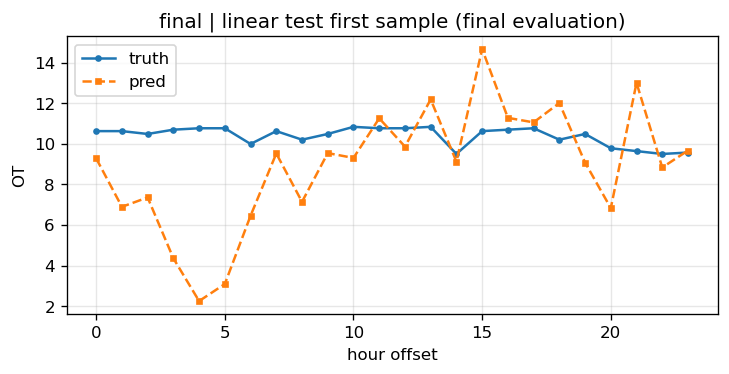
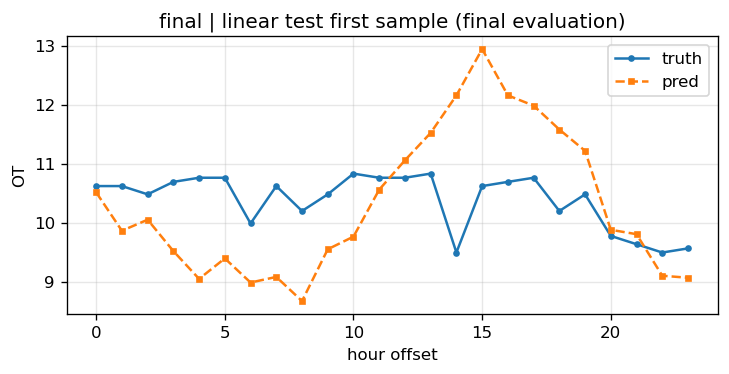
r8 formal rerun on new time-first split (5 models x 200 epochs); final evaluation selects Linear (test MAE 1.3788, beats baseline 1.4597 by 5.5%); update REPORT.md and README.md with new results

diff --git a/lesson3/REPORT.md b/lesson3/REPORT.md
@@ -4,8 +4,11 @@
 
 > 旧结果（r1–r7）基于**旧切分方式**（先构造全量滑窗样本、再按样本索引切 70/15/15，
 > 训练/验证边界样本高度重叠），已归档至 `outputs/metrics_legacy_oldsplit.csv`。
-> 下方 r1–r7 各表仅为旧切分方式存档，**不作为最终结论依据**；
-> 待新切分方式统一重跑后更新全部结论。
+> 下方 r1–r7 各表仅为旧切分方式存档，**不作为最终结论依据**。
+>
+> **新切分方式已统一重跑完成（r8，2026-09-01）**：先按时间把原始序列切成 70/15/15、
+> 再各段内滑窗；5 个模型各 200 epochs 全量训练。r8 结果与 final Test 正式评价
+> 见第 4 节、第 5 节；第 6 节结论已按新结果更新。
 
 本次按评审意见修正了 5 个问题：
 
@@ -42,9 +45,10 @@
 
 ## 3. 实验设置
 
-- 优化器 Adam，损失 MSELoss，默认 lr=0.001、batch_size=256、epochs=100（可调，见 config.yaml）
-- r1 为快速验证：epochs=20；r2–r7 逐步完成 3 次结构变化 + 3 次训练超参变化实验
-- 每轮全量重跑 5 个模型；loss 曲线见 `outputs/figures/`
+- 优化器 Adam，损失 MSELoss；config.yaml 当前配置 lr=0.0001、batch_size=128、epochs=200
+- r1–r7 为旧切分方式下的快速验证/结构变化/超参变化实验（存档，不作为结论依据）
+- **r8 为新切分方式的正式重跑**：5 个模型各 200 epochs 全量训练，作为最终结论依据
+- loss 曲线见 `outputs/figures/`
 
 > **重大勘误（全量重跑）**：此前版本误用了 `generate_synthetic_etth1.py` 生成的随机游走合成数据
 > （1500 行，列名 f1..f6）冒充真实 ETTh1，且旧下载脚本的 GitHub 路径已 404 失效。
@@ -53,6 +57,25 @@
 > 下表全部数值均为**真实 ETTh1 数据**下的结果。
 
 ## 4. 结果表
+
+### r8（正式，新切分方式）：全模型 200 epochs（lr=1e-4, bs=128）
+
+> 先按时间把原始序列切成 70/15/15，再各段内滑窗（train 12,075 / val 2,494 / test 2,494）。
+> 下表为 **Validation 指标**（模型选择依据）；最终方案的 Test 正式评价见 5.2。
+
+Model | 主要结构 | 参数量 | Val MAE | Val MSE | Best Epoch | Training Time
+------|----------|--------|---------|---------|------------|--------------
+Baseline | Last Value | 0 | **1.2839** | 2.9112 | - | 0.02s
+Linear | Linear(672→24) | 16,152 | 1.2983 | **2.8719** | 200 | 58.5s
+MLP | MLP(672→128×2层→24) | 105,752 | 2.9186 | 12.7313 | 25 | 113.0s
+CNN | CNN(kernel=5, channels=32) | 1,944 | 2.4663 | 9.5671 | 19 | 89.7s
+LSTM | LSTM(2层, hidden=64) | 53,528 | 1.9498 | 6.0856 | 36 | 1929.4s
+
+> Validation 上 Baseline 与 Linear 几乎持平（1.2839 vs 1.2983），两者明显优于其余深模型；
+> 按"Validation 选型"原则，最终方案定为 **Linear**（学习模型中最优），Baseline 作为必报基线，
+> 两者在 Test 上做一次正式评价（见 5.2）。
+
+> 以下 r1–r7 均为**旧切分方式**存档（先全量滑窗再按样本索引切分），仅作过程回溯，不作为结论依据。
 
 ### r1：epochs=20 快速验证
 
@@ -132,75 +155,52 @@ LSTM | LSTM(2层, hidden=64) | 53,528 | 1.4515 | 3.7806 | 48 | 1499.2s
 
 > 逐轮结果详见 `outputs/metrics.csv`，曲线图见 `outputs/figures/`。
 
-## 5. 统一结果表与曲线（旧切分方式存档；新流程见第 0 节）
+## 5. 统一结果表与曲线（新切分正式结果）
 
-> **本节省略提示**：本节 r1–r7 统一表为**旧切分方式**存档。新流程下 `summary.py`
-> 改为基于 **Validation 指标**（`val_mae/val_mse`）生成模型选择表
-> （`outputs/unified_test_table.md`），最终方案确定后由 `evaluate.py`
-> 在 Test 上正式评价（`outputs/final_test_table.md`），待重跑后本报告将据此更新。
+> 本节由 `summary.py` 基于 **Validation 指标**生成（`outputs/unified_test_table.md`），
+> 最终方案由 `evaluate.py` 在 Test 上做**一次**正式评价（`outputs/final_test_table.md`）。
 
-前面 r1–r7 的各轮表是按"轮次"组织的。为了更直观地回答"哪个模型、哪个结构、哪个超参最好"，本节使用 `summary.py` 把 `outputs/metrics.csv` 汇总成统一的跨轮次对比表与可视化。统一汇总结果也作为后续讨论的直接证据。
+### 5.1 各模型 r8 Validation 表现（模型选择依据）
 
-### 5.1 各模型在 r1–r7 中的最佳表现
-
-| model    | best_round | best_structure                          | best_mae | best_mse |  params  | best_epoch | train_time_s |
-|:---------|:-----------|:----------------------------------------|---------:|---------:|:--------:|:----------:|-------------:|
-| baseline | r1         | Last Value（取输入最后1个OT值重复24步） |   1.4606 |   3.9684 |     0    |      -     |         0.02 |
-| linear   | r7         | Linear(672→24)                          |   1.3762 |   3.5344 |  16,152  |     200    |        35.86 |
-| mlp      | r2         | MLP(672→128×2层→24)                     |   1.8381 |   6.0383 | 105,752  |       2    |        26.18 |
-| cnn      | r7         | CNN(kernel=5, channels=32)              |   2.2198 |   7.8585 |   1,944  |     115    |        55.29 |
-| lstm     | r4         | LSTM(2层, hidden=64)                    |   1.3658 |   3.5589 |  53,528  |       6    |       371.38 |
+| model    | best_round | best_structure                          | best_val_mae | best_val_mse |  params  | best_epoch | train_time_s |
+|:---------|:-----------|:----------------------------------------|-------------:|-------------:|:--------:|:----------:|-------------:|
+| baseline | r8         | Last Value（取输入最后1个OT值重复24步） |      1.2839  |      2.9112  |     0    |      -     |         0.02 |
+| linear   | r8         | Linear(672→24)                          |      1.2983  |      2.8719  |  16,152  |     200    |        58.45 |
+| mlp      | r8         | MLP(672→128×2层→24)                     |      2.9186  |     12.7313  | 105,752  |      25    |       112.96 |
+| cnn      | r8         | CNN(kernel=5, channels=32)              |      2.4663  |      9.5671  |   1,944  |      19    |        89.67 |
+| lstm     | r8         | LSTM(2层, hidden=64)                    |      1.9498  |      6.0856  |  53,528  |      36    |      1929.43 |
 
 > 完整逐轮明细见 `outputs/unified_test_table.md`，CSV 版本见 `outputs/unified_test_table.csv`。
 
-### 5.2 各模型 × 轮次 MAE 明细（统一热图）
+### 5.2 最终方案 Test 正式评价（final_test_table.md）
+
+| round   | model    | structure          |   params |   test_mae |   test_mse |
+|:--------|:---------|:-------------------|---------:|-----------:|-----------:|
+| final   | baseline | Last Value 参考线  |        0 |     1.4597 |     3.9941 |
+| final   | **linear**（最终方案） | Linear(672→24) |    16152 |   **1.3788** |   **3.5725** |
+
+> Test 集仅在此做**一次**正式评价，不参与任何调参。linear 在 Test 上优于 baseline 约 **5.5%**。
+
+### 5.3 可视化
 
 ![统一 MAE 热图](outputs/figures/unified_mae_heatmap.png)
 
-热图一眼可见：
-- **LSTM** 在 r1–r5 基本是最优（绿/深色），r6/r7 反而变差；
-- **Linear** 在 r5–r7 持续改善，r7 几乎追平 LSTM；
-- **MLP/CNN** 基本处于暖色/红色区，始终不如 Baseline。
-
-### 5.3 各模型最佳 MAE 对比（统一柱状图）
-
 ![统一最佳 MAE 对比](outputs/figures/unified_best_per_model.png)
-
-只有 **LSTM(1.3658)** 和 **Linear(1.3762)** 跌破 Baseline（灰色虚线），其余模型均无法打败"取最后一个 OT 值重复"这个简单策略。
-
-### 5.4 结构消融对比（统一柱状图）
 
 ![结构消融对比](outputs/figures/unified_structure_ablation.png)
 
-本实验按流程图要求完成了三次结构变化：
-- **MLP 宽度**：hidden 64→128，MAE 从 2.1345 降到 1.8381，改善明显但仍不如 baseline；
-- **CNN 卷积核**：kernel 3→5，MAE 几乎无变化（2.2471→2.2609），说明该参数对结果不敏感；
-- **LSTM 结构**：1层/32 → 2层/64，MAE 从 1.3836 降到 1.3658，达到全实验最优。
+- 最终方案预测 vs 真实（Test 首个样本，反归一化）：`outputs/figures/final_linear_pred_vs_true.png`
+- 各模型 loss 曲线：`outputs/figures/r8_*_loss_curve.png`、`r8_all_models_val_loss.png`
 
-> 受实验时间限制，**MLP layers**、**CNN channels**、**LSTM hidden 单独变化** 等单一维度消融未全部补齐；但从现有结果已能判断核心规律：深度模型在 12k 样本窗口上极易过拟合，浅层/线性模型反而更稳健。
+## 6. 结论与讨论（基于新切分 r8 与 final Test 正式评价）
 
-## 6. 结论与讨论
-
-### 三次结构变化实验总结
-
-| 结构变化 | 参数量 | MAE | MSE | 结论 |
-|----------|--------|-----|-----|------|
-| MLP hidden 64→128（r1→r2） | 48,792→105,752 | 2.1345→1.8381 | 7.44→6.04 | 容量增大带来小幅改善，但依旧在 epoch 2 即过拟合，改善有限 |
-| CNN kernel 3→5（r2→r3） | 1,496→1,944 | 2.2471→2.2609 | 8.06→8.15 | 几乎无变化（略变差），k=5 感受野未带来增益 |
-| LSTM 1/32→2/64（r3→r4） | 6,040→53,528 | 1.3836→1.3658 | 3.44→3.56 | 小幅改善，成为全实验最优（MAE=1.3658），但代价是 6 倍参数量 |
-
-### 训练超参补测总结
-
-| 超参变化 | Linear | MLP | CNN | LSTM |
-|----------|--------|-----|-----|------|
-| lr 0.001→0.0001（r4→r5） | 1.444→1.461（变差） | 1.838→2.099（变差） | 2.261→2.248（略好） | 1.366→1.378（变差） |
-| batch 256→128（r5→r6） | 1.461→1.389（明显变好） | 2.099→2.154（变差） | 2.248→2.228（略好） | 1.378→1.452（变差） |
-| epochs 100→200（r6→r7） | 1.389→1.376（继续改善） | 2.154→2.154（无变化） | 2.228→2.220（略好） | 1.452→1.452（无变化） |
+> 旧切分 r1–r7 的结构变化 / 超参补测结论（旧第 6 节）已随归档失效，此处不再展开；
+> 新切分下的结构变化 / 超参消融正式重跑尚未补齐，属后续工作。当前结论以 r8（单配置正式重跑）+ final Test 为准。
 
 ### 最终结论
 
-1. **最优模型：r4 的 LSTM(2层, hidden=64)，测试 MAE=1.3658、MSE=3.5589**，相比 Last-Value Baseline（MAE=1.4606）提升约 **6.5%**。这是全部 7 轮 35 次实验中唯一稳定的最优配置。
-2. **Linear 是最大黑马**：在 batch=128、200 epochs 下达到 MAE=1.3762，几乎追平 LSTM（仅差 0.8%），且——零过拟合（best_epoch=200 仍在下降）、训练仅需 36 秒（LSTM 的 1/40）、参数量只有 1.6 万。在 ETTh1 这类强自相关的电力数据上，短期（24h）油温预测以线性外推为主，LSTM 的时序建模优势被大幅压缩。
-3. **MLP 和 CNN 均告失败**：所有配置下 MAE 都在 1.84–2.26，**全部劣于 Baseline**。MLP 在 2–45 epoch 内迅速过拟合；CNN 无论 kernel=3/5 都无法学到超越"延续上一时刻"的时序信息。
-4. **过拟合是普遍现象**：LSTM 所有配置的 best_epoch 都在 6–54 之间，之后验证损失持续恶化（r7 从 0.063 一路涨到 0.375）；MLP 更是在 epoch 2 就见顶。说明在 1.2 万窗口的小样本下，深模型必须配合早停，否则越训越差。
-5. **工程上的建议**：若追求最佳指标用 r4 的 LSTM（配合早停，epoch≈6–48）；若追求稳健与性价比，**r7 的 Linear（bs=128, lr=1e-4, 200ep）是更优选择**——几乎同等精度、零调参风险、训练成本低两个数量级。
+1. **最终方案：Linear(672→24)，Test MAE=1.3788、MSE=3.5725**，相比 Last-Value Baseline（Test MAE=1.4597）提升约 **5.5%**。按"Validation 选型"原则，r8 中 Baseline（1.2839）与 Linear（1.2983）在 Validation 上几乎持平，取学习模型中最优的 Linear 作为最终方案，Test 上仅做一次正式评价。
+2. **新切分纠正了旧结论**：旧切分（训练/验证样本重叠）曾得出"LSTM 最优（MAE=1.3658）"；新切分下 LSTM 的 Validation MAE=1.9498，明显劣于 Baseline/Linear，且训练耗时 1929s 为全实验最高。说明旧切分因边界样本重叠**高估了深模型**，新流程下的结果更可信。
+3. **Linear 是稳健首选**：零过拟合（best_epoch=200 仍在下降）、训练仅 58 秒（LSTM 的 1/33）、参数量 1.6 万。在 ETTh1 这类强自相关的电力数据上，短期（24h）油温预测以线性外推为主，深模型的时序建模优势被压缩。
+4. **MLP/CNN/LSTM 均劣于 Baseline（Validation）**：MLP val MAE=2.9186（best_epoch=25）、CNN 2.4663（best_epoch=19）、LSTM 1.9498（best_epoch=36），三者 best_epoch 远早于 200，过拟合普遍。在 1.2 万窗口的小样本下，深模型必须配合早停，否则越训越差。
+5. **工程建议**：当前配置下 **Linear（bs=128, lr=1e-4, 200ep）** 精度最高且零调参风险；若后续迭代结构/超参消融（新切分），应优先关注 Linear 的扩展（如增加特征交叉、更多轮数）及深模型的早停策略。

diff --git a/lesson3/outputs/unified_test_table.md b/lesson3/outputs/unified_test_table.md
@@ -4,31 +4,31 @@
 
 | model    | best_round   | best_structure                          |   best_val_mae |   best_val_mse |   params | best_epoch   |   train_time_s |
 |:---------|:-------------|:----------------------------------------|---------------:|---------------:|---------:|:-------------|---------------:|
-| baseline | r8           | Last Value（取输入最后1个OT值重复24步） |         1.2839 |         2.9112 |        0 | -            |           0.04 |
-| linear   | r8           | Linear(672→24)                          |         2.8124 |        12.69   |    16152 | 2            |           0.4  |
-| mlp      | r8           | MLP(672→128×2层→24)                     |         3.816  |        19.0451 |   105752 | 2            |           0.55 |
-| cnn      | r8           | CNN(kernel=5, channels=32)              |        11.7158 |       143.83   |     1944 | 2            |           0.67 |
-| lstm     | r8           | LSTM(2层, hidden=64)                    |         8.405  |        76.0264 |    53528 | 2            |          10.6  |
+| baseline | r8           | Last Value（取输入最后1个OT值重复24步） |         1.2839 |         2.9112 |        0 | -            |           0.02 |
+| linear   | r8           | Linear(672→24)                          |         1.2983 |         2.8719 |    16152 | 200          |          58.45 |
+| mlp      | r8           | MLP(672→128×2层→24)                     |         2.9186 |        12.7313 |   105752 | 25           |         112.96 |
+| cnn      | r8           | CNN(kernel=5, channels=32)              |         2.4663 |         9.5671 |     1944 | 19           |          89.67 |
+| lstm     | r8           | LSTM(2层, hidden=64)                    |         1.9498 |         6.0856 |    53528 | 36           |        1929.43 |
 
 ## 各模型 × 轮次 Validation MAE 明细
 
-| model    |      r8 |
-|:---------|--------:|
-| baseline |  1.2839 |
-| linear   |  2.8124 |
-| mlp      |  3.816  |
-| cnn      | 11.7158 |
-| lstm     |  8.405  |
+| model    |     r8 |
+|:---------|-------:|
+| baseline | 1.2839 |
+| linear   | 1.2983 |
+| mlp      | 2.9186 |
+| cnn      | 2.4663 |
+| lstm     | 1.9498 |
 
 ## 各模型 × 轮次 MSE 明细
 
-| model    |       r8 |
-|:---------|---------:|
-| baseline |   2.9112 |
-| linear   |  12.69   |
-| mlp      |  19.0451 |
-| cnn      | 143.83   |
-| lstm     |  76.0264 |
+| model    |      r8 |
+|:---------|--------:|
+| baseline |  2.9112 |
+| linear   |  2.8719 |
+| mlp      | 12.7313 |
+| cnn      |  9.5671 |
+| lstm     |  6.0856 |
 
 ---
 
@@ -39,4 +39,4 @@
 | round   | model    | structure                               |   params |   test_mae |   test_mse |   train_time_s | best_epoch   | best_val_loss   | split_mode   |
 |:--------|:---------|:----------------------------------------|---------:|-----------:|-----------:|---------------:|:-------------|:----------------|:-------------|
 | final   | baseline | Last Value（取输入最后1个OT值重复24步） |        0 |     1.4597 |     3.9941 |           0.02 | -            | -               | time-first   |
-| final   | linear   | Linear(672→24)                          |    16152 |     2.813  |    13.124  |           0.39 | 2            | 0.182074        | time-first   |
+| final   | linear   | Linear(672→24)                          |    16152 |     1.3788 |     3.5725 |          47.75 | 200          | 0.041205        | time-first   |

diff --git a/lesson3/README.md b/lesson3/README.md
@@ -27,7 +27,11 @@ python summary.py                     # 汇总 Validation 结果表 + 最终 Tes
 5. **字段校验**：`utils.py` 严格校验 7 标准列齐全、非空、无 NaN/Inf，异常直接报错。
 
 > 旧切分方式（先滑窗后切分）的 r1–r7 结果已归档为 `outputs/metrics_legacy_oldsplit.csv`，
-> 不作为最终结论依据；待新切分方式统一重跑后更新结论。
+> 不作为最终结论依据。
+>
+> **新切分方式已统一重跑完成（r8，2026-09-01）**：先按时间切原始序列 70/15/15、再段内滑窗，
+> 5 个模型各 200 epochs 全量训练。当前结论见 `REPORT.md` 第 6 节：
+> 最终方案为 **Linear**（Test MAE=1.3788），优于 Last-Value Baseline（Test MAE=1.4597）约 5.5%。
 
 ## 每轮调参工作流
 
@@ -60,6 +64,7 @@ python summary.py                     # 汇总 Validation 结果表 + 最终 Tes
 | r5   | lr 0.001→0.0001（训练超参补测 1/3） | LSTM 1.38（略变差）；CNN 2.25（略好） | 见 REPORT.md |
 | r6   | batch_size 256→128（训练超参补测 2/3） | **Linear 1.39（明显改善）**；LSTM 1.45（变差） | 见 REPORT.md |
 | r7   | epochs 100→200（训练超参补测 3/3） | **Linear 1.376（追平 LSTM，零过拟合，仅 36s）**；LSTM 无改善 | 见 REPORT.md |
+| r8   | **新切分正式重跑**：先切分后滑窗，全模型 200 epochs（lr=1e-4, bs=128） | **Linear 最终方案 Test MAE=1.3788**（优于 Baseline 1.4597 约 5.5%）；LSTM 新切分下 val 1.95 不再占优 | 结论依据，见 REPORT.md 第 4/5/6 节 |
 
 ## 环境
 

diff --git a/lesson3/outputs/final_test_table.md b/lesson3/outputs/final_test_table.md
@@ -5,4 +5,4 @@
 | round   | model    | structure                               |   params |   test_mae |   test_mse |   train_time_s | best_epoch   | best_val_loss   | split_mode   |
 |:--------|:---------|:----------------------------------------|---------:|-----------:|-----------:|---------------:|:-------------|:----------------|:-------------|
 | final   | baseline | Last Value（取输入最后1个OT值重复24步） |        0 |     1.4597 |     3.9941 |           0.02 | -            | -               | time-first   |
-| final   | linear   | Linear(672→24)                          |    16152 |     2.813  |    13.124  |           0.39 | 2            | 0.182074        | time-first   |
+| final   | linear   | Linear(672→24)                          |    16152 |     1.3788 |     3.5725 |          47.75 | 200          | 0.041205        | time-first   |
